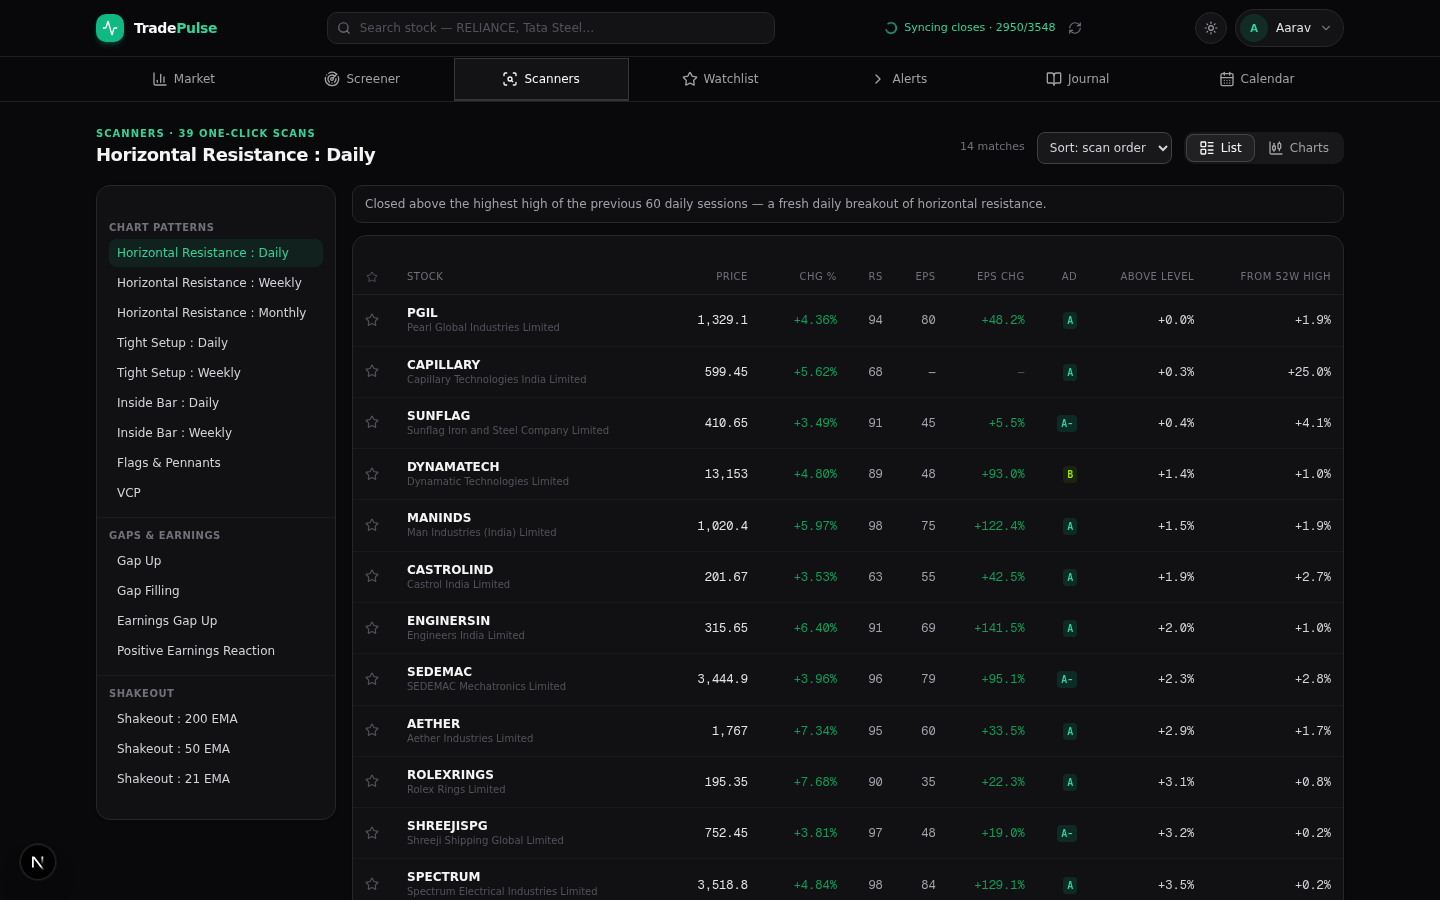
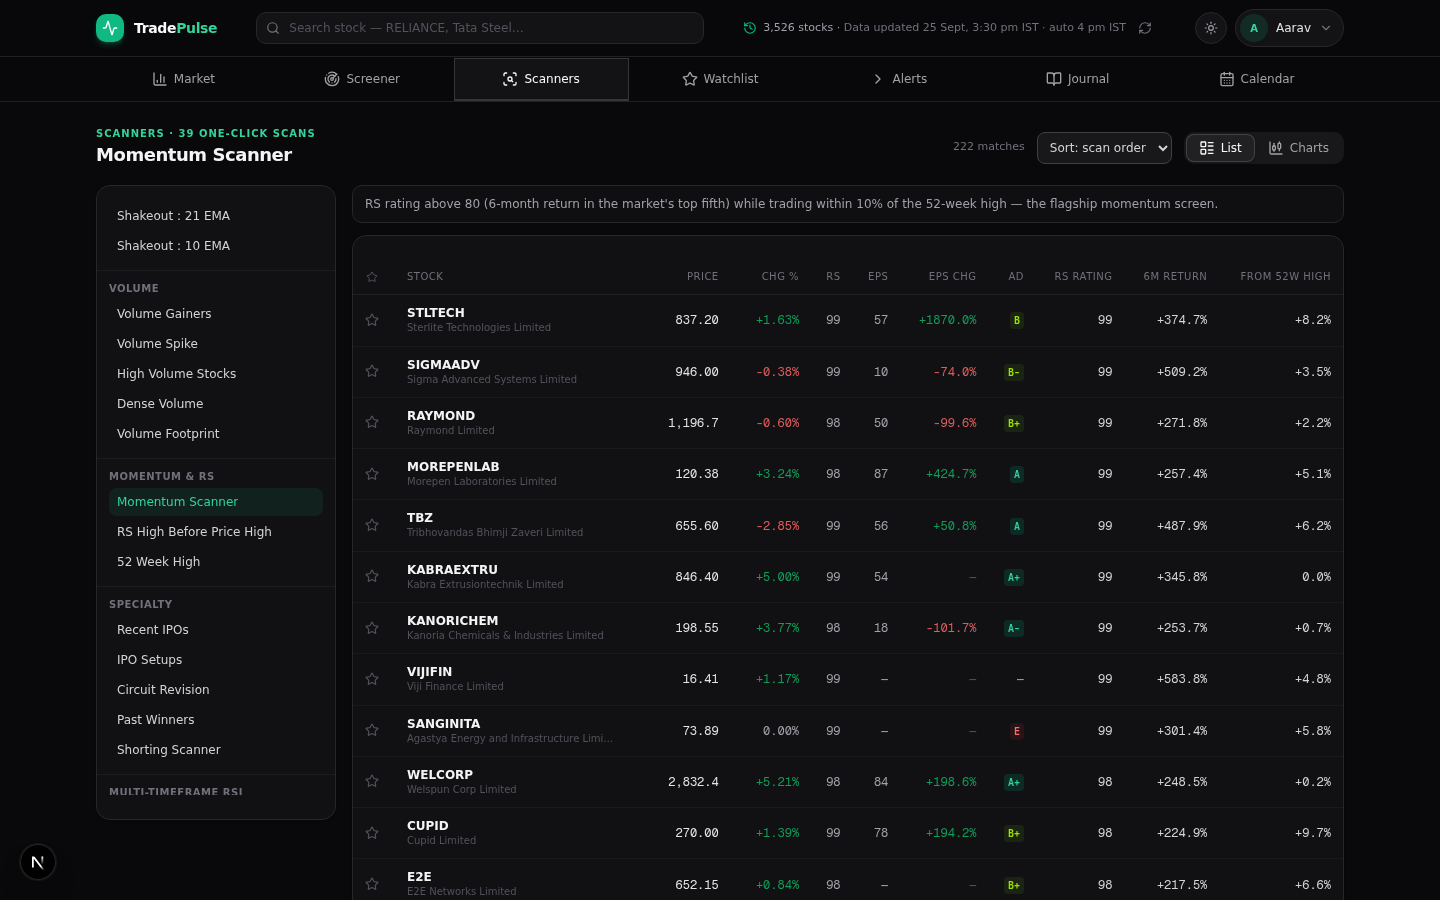
landing: surface uncapped full-result scans + refresh scanners screenshots
- features grid, product-tour scanners slide, basic-plan features and the
  Basic-vs-Pro matrix now state that every scan returns every matching
  stock (no top-N result caps, long tables paginated)
- shot-scanners light+dark regenerated on the current build: Momentum
  Scanner with 222 matches, fully populated RS/EPS/AD columns and the
  Show more pagination (replaces the stale 14-match resistance view)

diff --git a/src/components/landing.tsx b/src/components/landing.tsx
@@ -174,7 +174,7 @@ function HeroChip({ icon, title, sub }: { icon: React.ReactNode; title: string; 
 // ---------------------------------------------------------------- features
 
 const FEATURES = [
-  { icon: ScanSearch, title: `${TOTAL_SCANS} one-click scanners`, text: `A pro-grade EOD suite across ${TOTAL_CATEGORIES} categories — chart patterns, shakeouts, gaps & earnings, volume, relative strength, the multi-timeframe RSI extra and all seven Trader Choice templates. Every result carries MarketSmith-style RS rating, EPS score & A/D rating — sort by RS, change %, market cap or 1M/3M/6M performance and star the best charts straight into your watchlist.` },
+  { icon: ScanSearch, title: `${TOTAL_SCANS} one-click scanners`, text: `A pro-grade EOD suite across ${TOTAL_CATEGORIES} categories — chart patterns, shakeouts, gaps & earnings, volume, relative strength, the multi-timeframe RSI extra and all seven Trader Choice templates. Every result carries MarketSmith-style RS rating, EPS score & A/D rating — sort by RS, change %, market cap or 1M/3M/6M performance and star the best charts straight into your watchlist. Every scan returns every matching stock on the exchange — full results, never a truncated top-N sample.` },
   { icon: SlidersHorizontal, title: "Chartink-style condition builder", text: "Stack up to 50 condition rows with AND/OR groups — daily or weekly series, RSI & MACD, SMA or EMA at any length, Bollinger Bands, bars-ago offsets, crosses and percent windows. Run up to 8 scans together for confluence, save your screens, export to CSV." },
   { icon: BarChart3, title: "Market breadth & sector rotation", text: "A-D line, new highs vs new lows, participation above every key average, sector breadth grid, the RS × momentum rotation quadrant and sector strength — know the market's real mood in one glance before you plan the next session." },
   { icon: TrendingUp, title: "Sector momentum, three timeframes", text: "Daily, weekly and monthly RSI for every index and sector — spot high-strength rotations early and avoid sectors that only look strong on the daily chart." },
@@ -261,8 +261,8 @@ const SCREENS: {
     slug: "scanners",
     eyebrow: "Scanners",
     title: "39 one-click scanners with RS, EPS score & A/D rating",
-    text: "Pick a scan — from horizontal resistance breakouts to the seven multi-condition Trader Choice templates — hit run, and every NSE stock that matches appears as a clean candlestick tile, two charts per row, never a wall of noise. Each result carries its RS rating, EPS score, EPS change % and A/D rating (MarketSmith-style), plus the consolidation base overlay; re-sort by any of them, and star any stock straight into your watchlist.",
-    points: ["RS · EPS score · EPS change % · A/D rating on every output", "All 7 Trader Choice templates — momentum, price action, breakout, volume, low-base, confluence & fundamentals", "Base overlay with formation duration on each tile", "Sort by RS, EPS score, change %, mcap or 1M/3M/6M"],
+    text: "Pick a scan — from horizontal resistance breakouts to the seven multi-condition Trader Choice templates — hit run, and every NSE stock that matches appears as a clean candlestick tile, two charts per row, never a wall of noise. Each result carries its RS rating, EPS score, EPS change % and A/D rating (MarketSmith-style), plus the consolidation base overlay; re-sort by any of them, and star any stock straight into your watchlist. The full match list is always shown — hundreds of hits if that's what the logic finds, with long tables paginated so nothing is hidden.",
+    points: ["RS · EPS score · EPS change % · A/D rating on every output", "All 7 Trader Choice templates — momentum, price action, breakout, volume, low-base, confluence & fundamentals", "Full results, no caps — every matching stock returned, long tables paginated", "Base overlay with formation duration on each tile", "Sort by RS, EPS score, change %, mcap or 1M/3M/6M"],
   },
   {
     slug: "screener",

diff --git a/src/lib/pricing.ts b/src/lib/pricing.ts
@@ -70,6 +70,7 @@ export const BASIC_FEATURES = [
   "Market breadth dashboard — advances, declines & 52-week stats",
   "9 basic scanners — gaps, breakouts, 52-week highs, volume spikes & more",
   "List view with universal RS rating — sort results by RS, change %, market cap or 1M/3M/6M performance",
+  "Full scan results — every matching stock returned, never a truncated top-N list",
   "End-of-day market data",
   "1 watchlist (up to 10 stocks) & 3 price alerts",
   "Email support",
@@ -109,6 +110,7 @@ export const FEATURE_MATRIX: FeatureMatrixGroup[] = [
       { feature: "Scan result view", basic: "List", pro: "List + Charts grid" },
       { feature: "Universal RS rating on every result", basic: true, pro: true },
       { feature: "Sortable scan output — RS, change %, market cap, 1M/3M/6M return (list + charts)", basic: true, pro: true },
+      { feature: "Full scan output — every matching stock returned, no top-N result caps", basic: true, pro: true },
       { feature: "Add to watchlist from any result table or chart tile", basic: true, pro: true },
       { feature: "Screener — search, sector & sort across all 3,500+ NSE stocks", basic: false, pro: true },
       { feature: "Condition builder — Chartink-style visual logic, up to 50 rows with AND/OR groups: daily & weekly series, RSI & MACD, SMA/EMA at any length, Bollinger Bands, bars-ago offsets, crosses & percent windows, momentum, volume, valuation", basic: false, pro: true },
